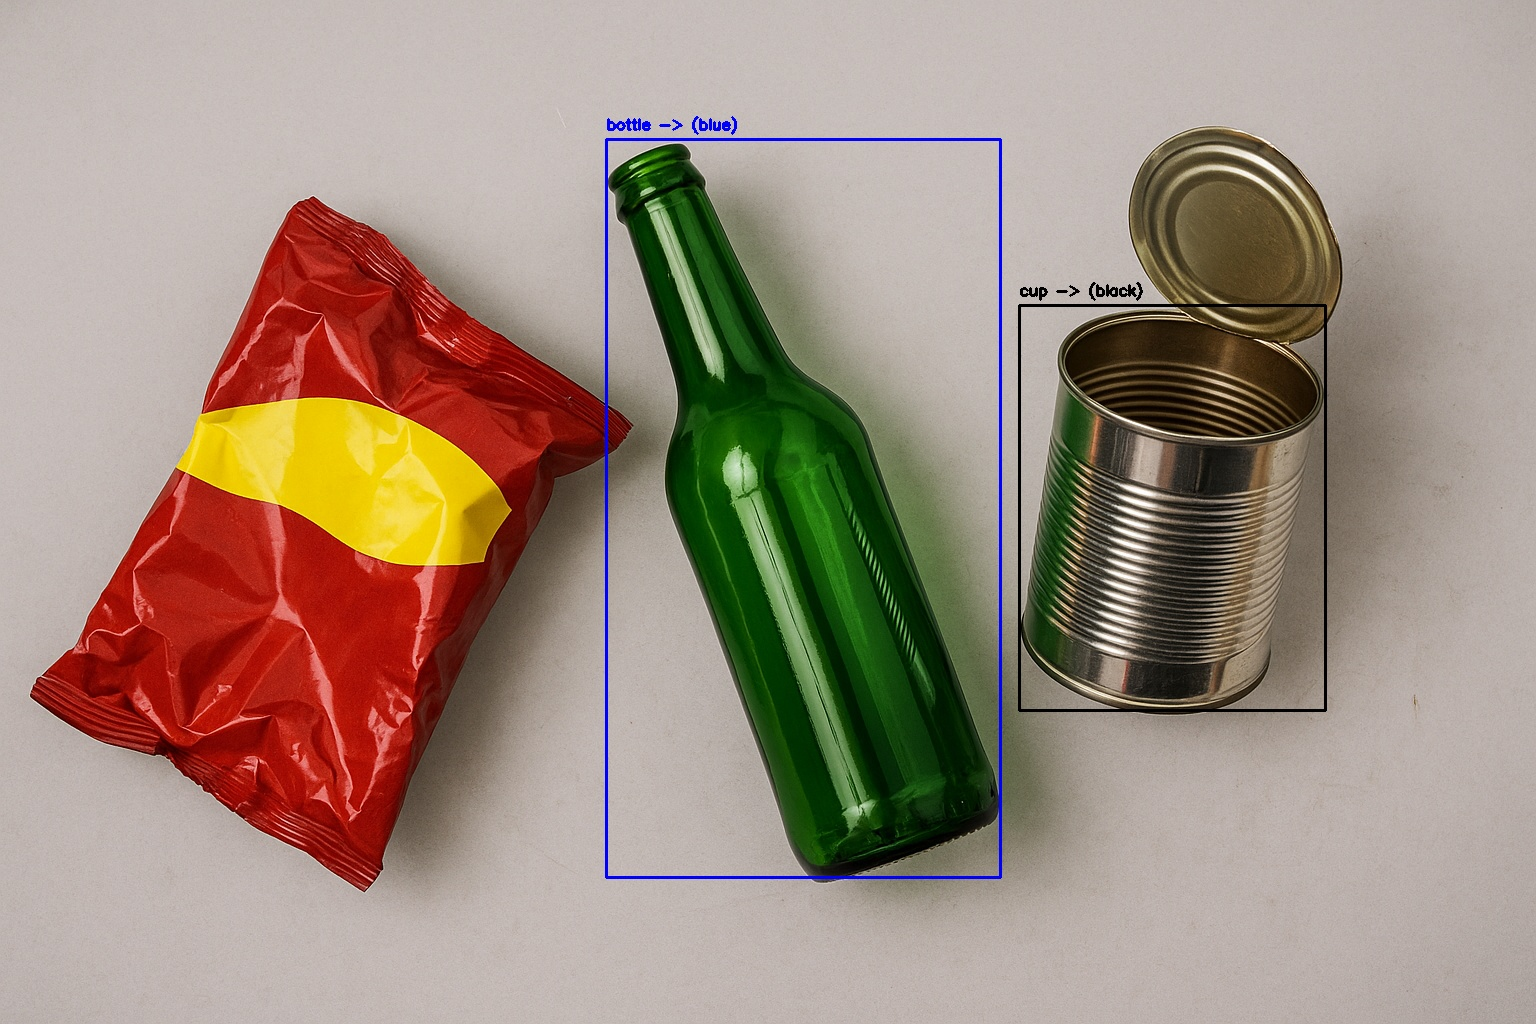
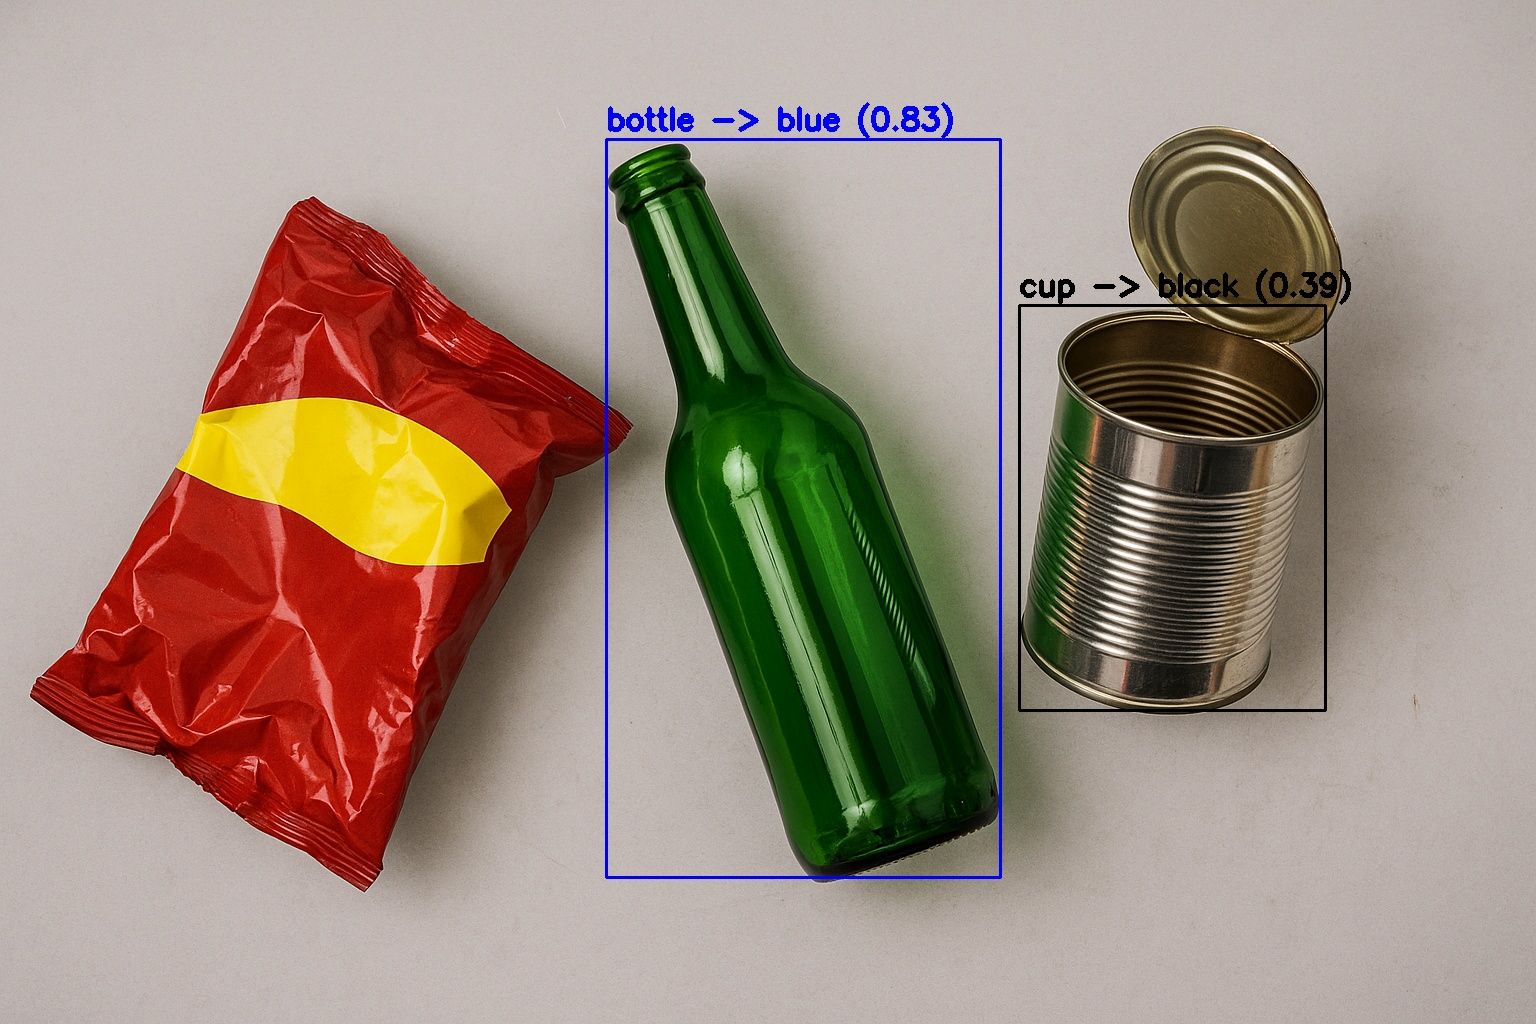
Addition of confidence interval labelling

Changed region(s): [[0.6562, 0.25, 0.875, 0.3125], [0.375, 0.0938, 0.625, 0.1562]]

diff --git a/src/utils/visualisation.py b/src/utils/visualisation.py
@@ -4,18 +4,33 @@ import cv2
 def draw_detections(image_path, detections, output_path = None):
     img = cv2.imread(image_path)
 
-    for label, (x,y,w,h), bin_color in detections:
-        color = (255, 0, 0)  # default: blue
-        if bin_color == "green":
-            color = (0, 255, 0)
-        elif bin_color == "black":
-            color = (0, 0, 0)
-        elif bin_color == "brown":
-            color = (42, 42, 165)
+    for label, (x,y,w,h), bin_color, conf in detections:
+        # color = (255, 0, 0)  # default: blue
+        # if bin_color == "green":
+        #     color = (0, 255, 0)
+        # elif bin_color == "black":
+        #     color = (0, 0, 0)
+        # elif bin_color == "brown":
+        #     color = (42, 42, 165)
+
+        # cv2.rectangle(img, (x, y), (x + w, y + h), color, 2)
+        # text = f"{label} -> ({bin_color})"
+        # cv2.putText(img, text, (x, y - 10), cv2.FONT_HERSHEY_SIMPLEX, 1, color, 2)
+
+        color_map = {
+            "blue": (255, 0, 0),
+            "green": (0, 255, 0),
+            "brown": (42, 42, 165),
+            "black": (0, 0, 0),
+            "grey": (128, 128, 128),
+            "unknown": (0, 0, 255),
+        }
+        color = color_map.get(bin_color, (200, 200, 200))
 
         cv2.rectangle(img, (x, y), (x + w, y + h), color, 2)
-        text = f"{label} -> ({bin_color})"
-        cv2.putText(img, text, (x, y - 10), cv2.FONT_HERSHEY_SIMPLEX, 0.5, color, 2)
+        label_text = f"{label} -> {bin_color} ({conf:.2f})"
+        cv2.putText(img, label_text, (x, y - 10), cv2.FONT_HERSHEY_SIMPLEX, 1, color, 3)
+
 
     if output_path:
         cv2.imwrite(output_path, img)

diff --git a/src/model/predict.py b/src/model/predict.py
@@ -1,7 +1,8 @@
 #this runs the interface: loads the model and returns the detected objects
 from model.load_model import load_yolo_model
+from utils.classifier import classify_bin
 
-def predict_image(image_path, model=None, conf = 0.25):
+def predict_image(image_path, model=None, conf = 0.25, council = "Cambridge"):
     """
     Predict objects in an image using the YOLO model.
     
@@ -27,6 +28,8 @@ def predict_image(image_path, model=None, conf = 0.25):
         x1, y1, x2, y2 = map(int, box.xyxy.tolist()[0])
         w = x2 - x1
         h = y2 - y1
-        predictions.append((label, (x1, y1, w, h)))
+        bin_type = classify_bin(label, council)
+        conf_score = float(box.conf.item())
+        predictions.append((label, (x1, y1, w, h), bin_type, conf_score))
 
     return predictions

diff --git a/src/main.py b/src/main.py
@@ -5,18 +5,8 @@ from utils.visualisation import draw_detections
 def main():
     image_path = "assets/test_image_2.png"
     detections = predict_image(image_path, model = "yolov8l.pt") # Example image path
-    
-    # for label, box in detections:
-    #     bin_type = classify_bin(label)
-    #     print(f"{label:15s} -> {bin_type:6s} bin @ {box}") 
 
-    visual_output = []
-    for label, box in detections:
-        bin_type = classify_bin(label)
-        visual_output.append((label, box, bin_type))
-        print(f"{label:15s} -> {bin_type:6s} bin @ {box}")
-
-    draw_detections(image_path, visual_output, output_path = "assets/annotated_output.jpg")
+    draw_detections(image_path, detections, output_path = "assets/annotated_output.jpg")
 
 
 if __name__ == "__main__":
